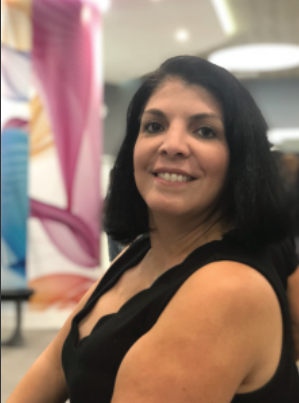
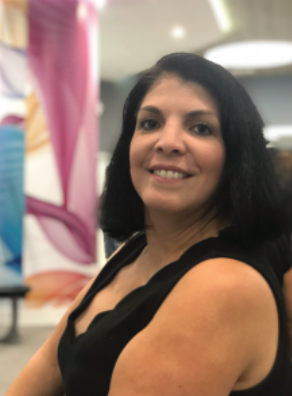
Finished desktop styles for the nav bar and hero section

diff --git a/index.html b/index.html
@@ -9,14 +9,19 @@
     <link rel="preconnect" href="https://fonts.googleapis.com">
     <link rel="preconnect" href="https://fonts.gstatic.com" crossorigin>
     <link href="https://fonts.googleapis.com/css2?family=Work+Sans:ital,wght@0,100..900;1,100..900&display=swap" rel="stylesheet">
-
+    <!-- Font Awesome -->
+    <script src="https://kit.fontawesome.com/ac4dc93457.js" crossorigin="anonymous"></script>
     <link rel="stylesheet" href="styles.css">
 </head>
 <body>
     <header>
         <nav>
             <div class="container">
-                <h2>Patricia Jaramillo</h3>
+                <div class="nav-icon-heading-container">
+                    <!-- <i class="fa-solid fa-palette"></i> -->
+                    <i class="fa-solid fa-paintbrush"></i>
+                    <h2>Patricia</h2>
+                </div>
                     <ul>
                         <li><a href="#">Home</a></li>
                         <li><a href="#">Skills</a></li>
@@ -26,35 +31,39 @@
                     </ul>
             </div>
         </nav>
-    </header>
 
-    <section class="hero" id="hero">
-        <div class="container">
-            <div class="hero__text">
-                <h1 class="heading">3D Animation Specialist</h1>
-                <p class="text">Patricia Jaramillo has studied Interior Design, which
-                    after finding her passion for the computers, she has
-                    been specialized in rendering animation, in her short
-                    career period, she had an opportunity to work with
-                    companies such as Pollo Tropical, Bonet International,
-                    and regular clients who is looking a realistic renders for
-                    their projects.</p>
-                <a class="btn btn-primary" href="#">Explore My Work</a>
-                <a class="btn btn-outline" href="#">About Me</a>
-            </div>
-            <div class="hero__image">
-                <div class="hero__image__container">
-                    <img class="circle__image" src="./images/oriental.webp" alt="">
-                    <img class="person__image" src="./images/patricia-img-removebg.png" alt="Patricia Jaramillo smiling" srcset="">
+        <section class="hero" id="hero">
+            <div class="container">
+                <div class="hero__text">
+                    <h1 class="heading">Patricia Jaramillo</h1>
+                    <h3>3D Animation Specialist</h3>
+                    <p class="text">Patricia Jaramillo has studied Interior Design, which
+                        after finding her passion for the computers, she has
+                        been specialized in rendering animation, in her short
+                        career period, she had an opportunity to work with
+                        companies such as Pollo Tropical, Bonet International,
+                        and regular clients who is looking a realistic renders for
+                        their projects.</p>
+                    <a class="btn btn-primary" href="#">Explore My Work</a>
+                    <a class="btn btn-outline" href="#">About Me</a>
+                </div>
+                <div class="hero__image">
+                    <img class="hero__image__patricia" src="./images/patricia-img.png" alt="">
+                    <!-- <div class="hero__image__container">
+                        <img class="circle__image" src="./images/oriental.webp" alt="">
+                        <img class="person__image" src="./images/patricia-img-removebg.png" alt="Patricia Jaramillo smiling" srcset="">
+                    </div> -->
                 </div>
             </div>
-        </div>
-        
+        </section>
+    </header>
 
-    </section>
+    
 
     <section class="skills" id="skills">
-
+        <div class="container">
+            <h2>My Skills & Expertise</h2>
+        </div>
     </section>
 
     

diff --git a/styles.css b/styles.css
@@ -21,9 +21,19 @@ body {
 /* Navigation Styles */
 /**********************/
 
+header {
+    background: #ffe9d9;
+    height: 100vh;
+    display: flex;
+    flex-direction: column;
+}
+
 header nav {
-    background-color: #FFFFFF;
+    /* background-color: #FFFFFF; */
+    position: sticky;
+    top: 0;
     padding: 1em 0;
+    /* border: solid red; */
 }
 
 header nav .container {
@@ -32,9 +42,30 @@ header nav .container {
     justify-content: space-between;
 }
 
+nav .nav-icon-heading-container {
+    display: flex;
+    align-items: center;
+}
+
+.fa-paintbrush {
+    margin-right: 0.25em;
+    font-size: 1.65rem;
+}
+
 nav h2 {
     font-size: 2rem;
     margin: 0;
+}
+
+nav h2::after {
+    content: '';
+    display: block;
+    width: 100%;
+    height: 30px;
+    background-color: #FFB700;
+    justify-self: center;
+    margin-top: -26px;
+    margin-left: 7px;
 }
 
 nav ul{
@@ -56,14 +87,17 @@ nav ul li:not(:last-child) {
 /* Hero Section */
 /***************/
 
-
+.hero {
+    /* border: solid red; */
+    margin: auto 0;
+}
 
 .hero .container {
     /* border: solid purple; */
     display: flex;
     justify-content: space-between;
     align-items: center;
-    padding-top: 6em;
+    /* padding-top: 6em; */
 }
 
 .hero__text {
@@ -76,6 +110,11 @@ nav ul li:not(:last-child) {
     margin-top: 0;
     color: #04091e;
     font-size: 2.5rem;
+}
+
+.hero__text h3 {
+    font-size: 1.5rem;
+    color: #6a6c75;
 }
 
 .hero__text .text {
@@ -119,14 +158,23 @@ nav ul li:not(:last-child) {
     transform: translateY(4px);
 }
 
-.hero__image {
+.hero__image .hero__image__patricia {
+    box-shadow: 2px 2px 10px rgba(0, 0, 0, 0.4);
+}
+
+
+
+/*********************************/
+/*CODE FOR POP OUT IMAGE EFFECT */
+/*******************************/
+
+/* .hero__image {
     position: relative;
     width: 30%;
     bottom: 4em;
 }
 
 .hero__image__container {
-    /* background-color: red; */
     aspect-ratio: 1 / 1.25;
     display: grid;
     align-items: end;
@@ -146,8 +194,7 @@ nav ul li:not(:last-child) {
 
 .person__image {
     position: relative;
-    /* right: 1em; */
     transform: scale(1.3);
     object-fit: cover;
-}
+} */
 
